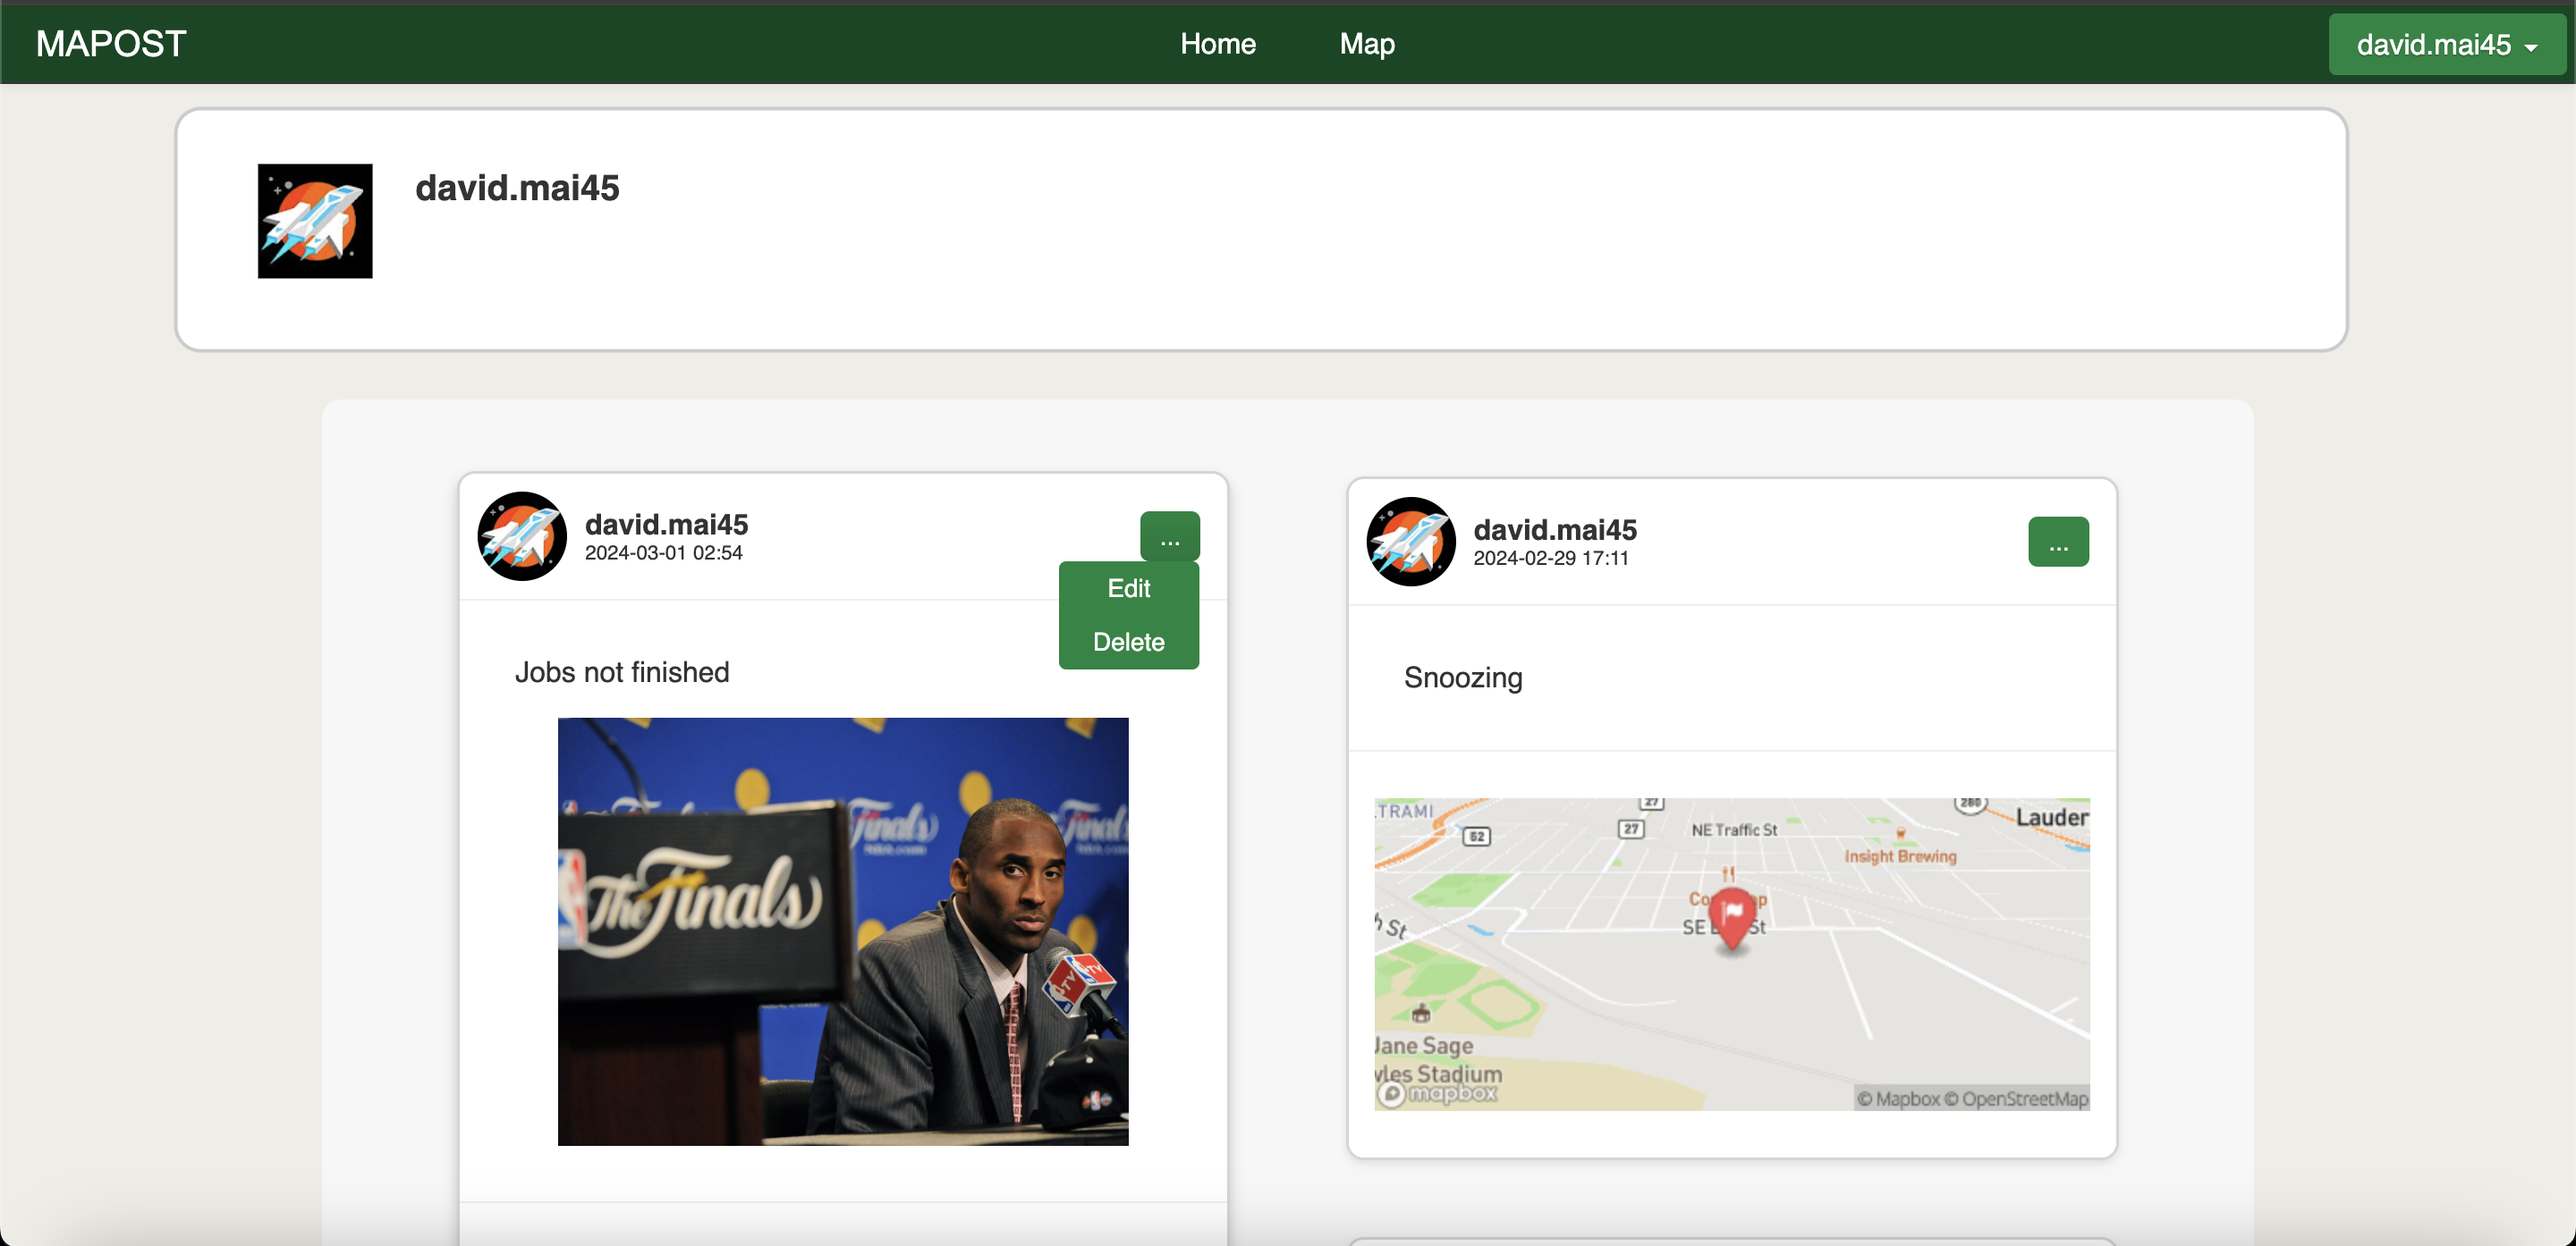
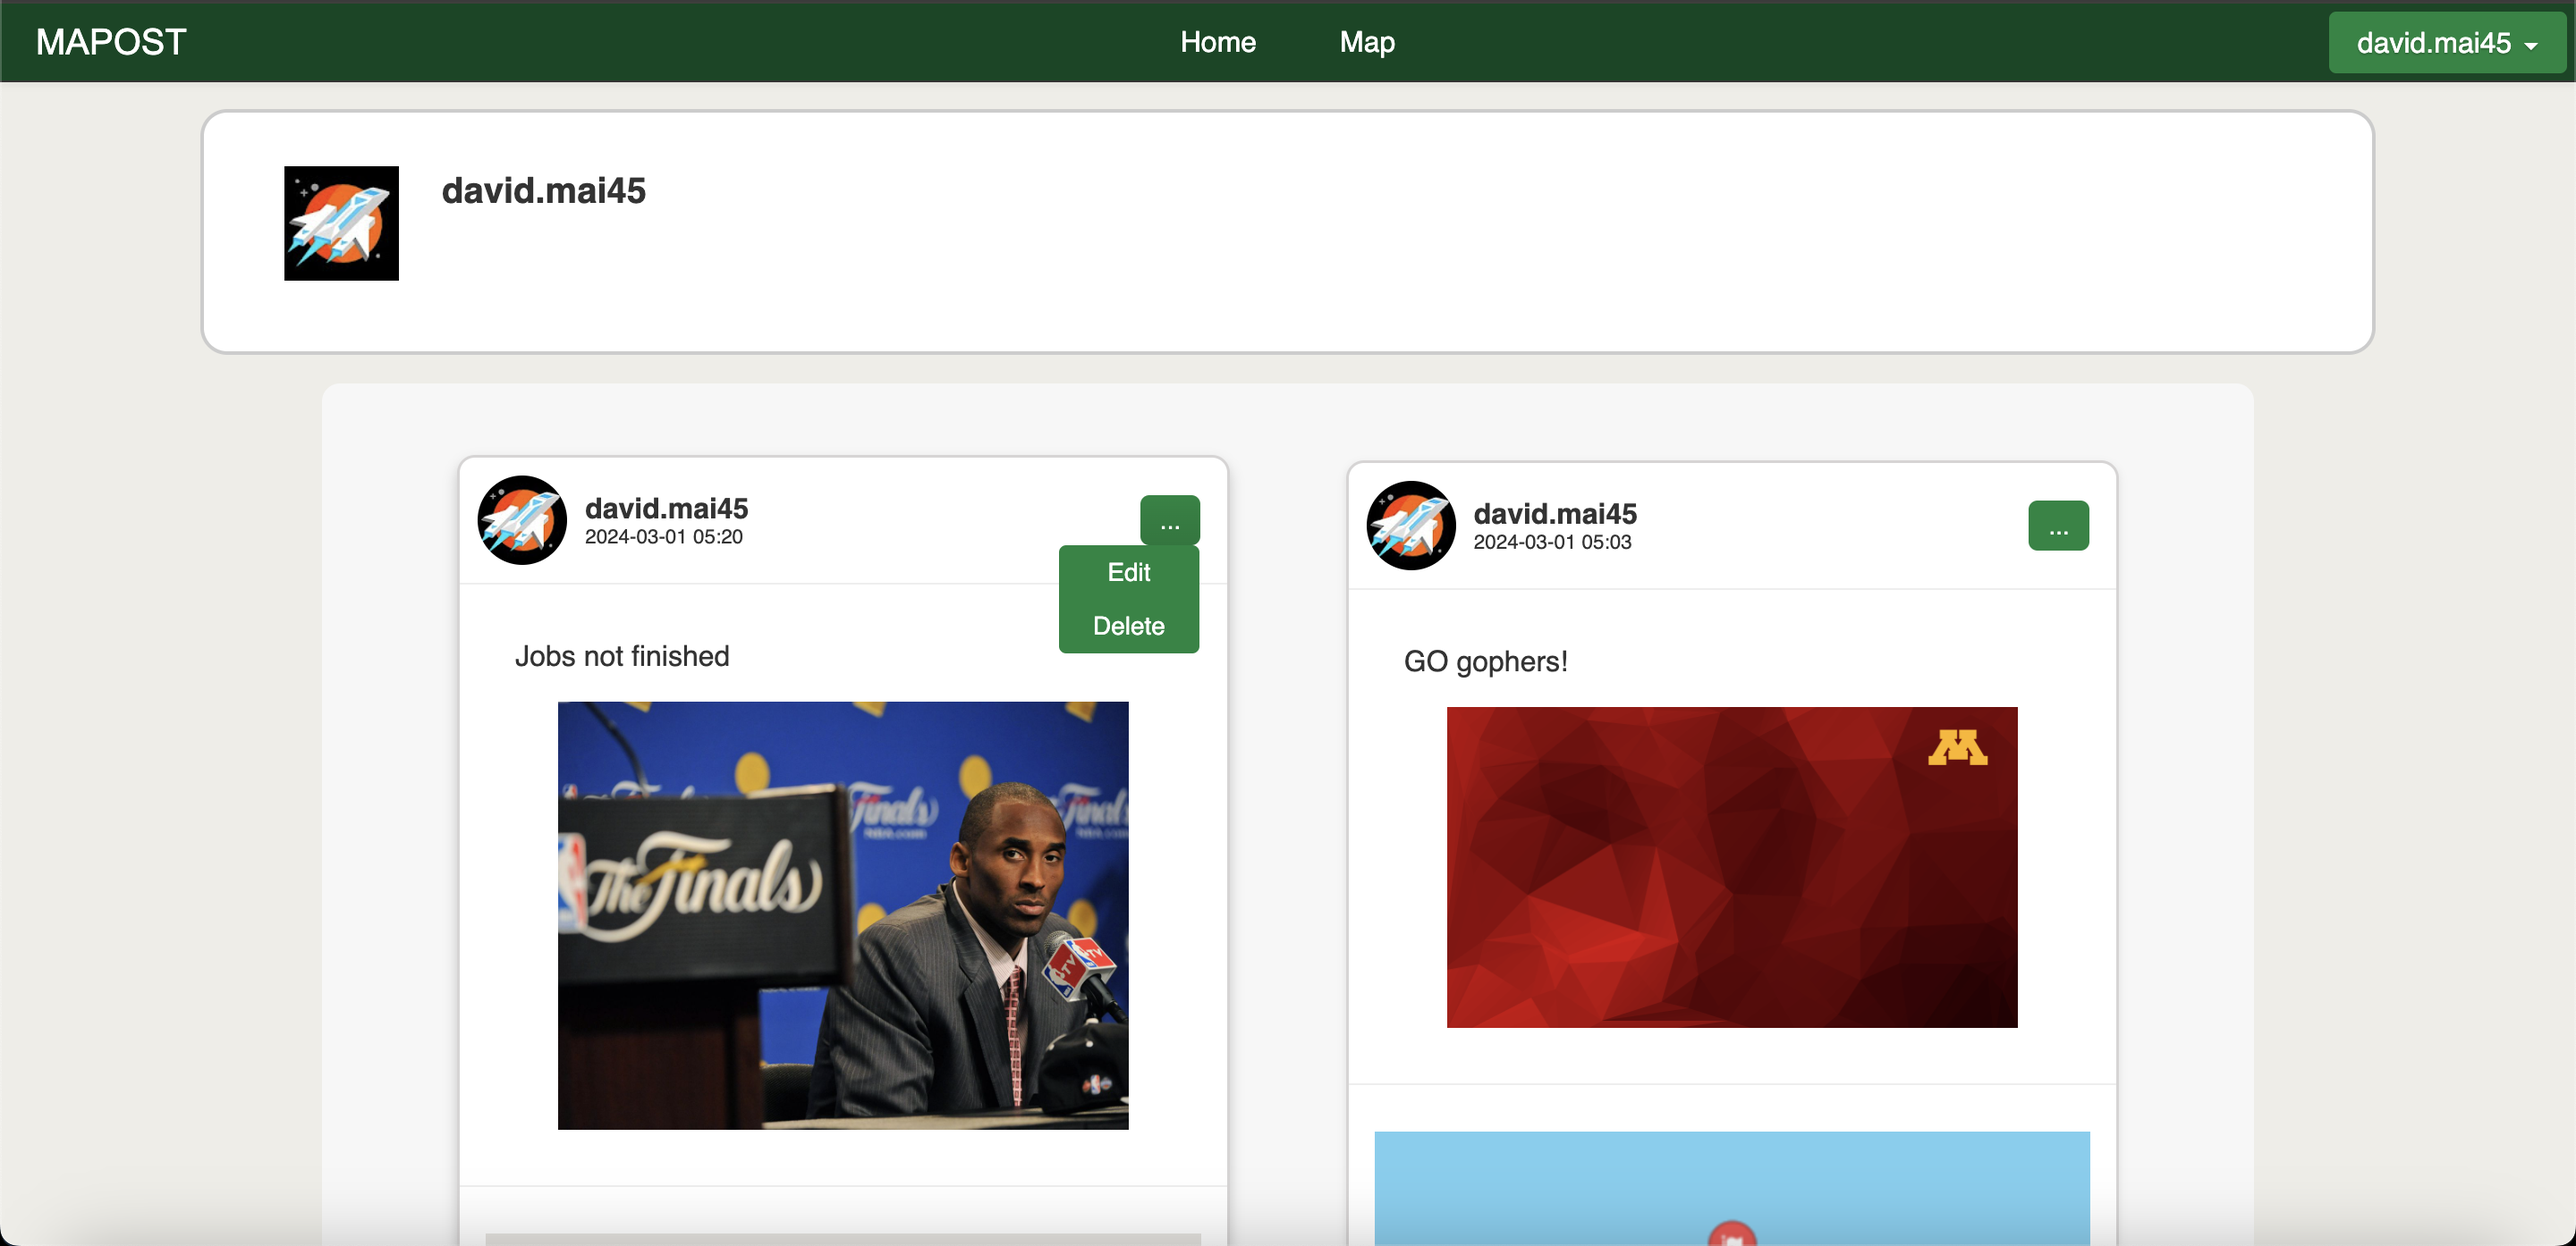
centered user section and new ss

diff --git a/templates/user_home.html b/templates/user_home.html
@@ -11,7 +11,7 @@
 
 <div class="pure-g">
 
-  <div class="pure-u-1 user-container">
+  <div class="pure-u-4-5 user-container">
     <div class="pure-g user-details">
       <div class="pure-u">
         <img width="64" height="64" class="user-img" src="{{ user.img }}">

diff --git a/static/css/user_home.css b/static/css/user_home.css
@@ -11,10 +11,8 @@ body {
     background-color: white;
     border: 2px solid #ccc;
     padding: 30px;
-    margin-bottom: 40px;
+    margin: 1em auto 1em;
     border-radius: 15px;
-    width: 80%;
-    transform: translate(8%, 10%);
 }
 
 .user-details {
